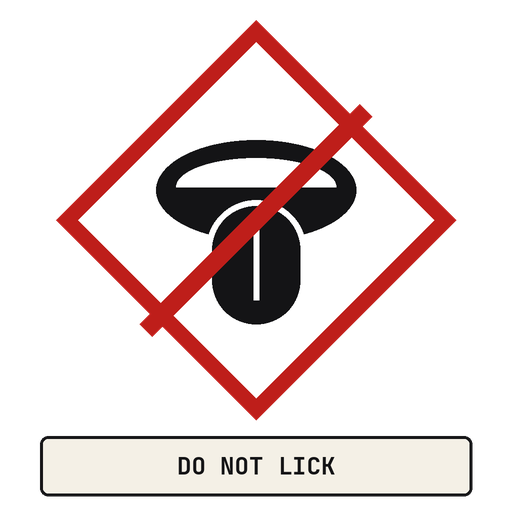
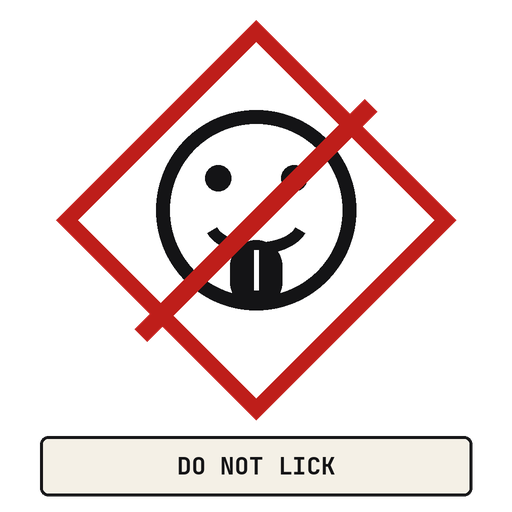
docs: replace two crate pictograms and redraw "do not lick"
Radioactive and explosive instead of "slows reflexes" and "do not kick".

Claude-Session: https://claude.ai/code/session_01TPtXe8YEjXWuXNmFgmXabW

Changed region(s): [[0.2812, 0.1875, 0.7188, 0.6562], [0.25, 0.625, 0.3125, 0.6875], [0.6875, 0.1875, 0.75, 0.2188]]

diff --git a/docs/vpk-industries.md b/docs/vpk-industries.md
@@ -265,7 +265,7 @@ Facility door sign (1024×512, enamel sign with hazard border), same folder: `no
 
 KD-PX shipment crates, same folder:
 - `kdpx_shipping_label_1024x768.png`: the waybill. From: *[CLASSIFIED]*, to: NONVIS-001 Oasis, contents (DynaRain™ ×22, Splash ×22, smoke), weight *"[?] (not found)"*, carrier *[REDACTED]*, signed by Daniel K., handling boxes (*"Keep dry (ironic)"*, *"Do not lick"*, *"Keep below 0 °K… wait, no."*), barcode `KDPX-404-0001-OASIS`, *"Priority: weather"*.
-- `kdpx_pictogram_<name>_512.png` (transparent, for decals): KD-PX hazard pictograms `kdanium`, `weather` (*contains weather*), `do-not-lick`, `slows-reflexes`, `cryogenic` (*keep below 0 °K*), `do-not-kick`.
+- `kdpx_pictogram_<name>_512.png` (transparent, for decals): KD-PX hazard pictograms `kdanium`, `weather` (*contains weather*), `do-not-lick`, `radioactive` (*highly radioactive*), `cryogenic` (*keep below 0 °K*), `explosive` (*see #001*).
 
 Emitter warning sign (1024×1024), same folder: `kd-wx-003_emitter_warning_1024x1024.png`, for the side emitter module of S.T.R.A.T.O.S.: *"KD-PX emitter · active emission"*, *"Do not inhale the weather."*, *"Do not block the outlet with your hand, your face or your coffee."*, *"The smoke is not a malfunction."*, minimum distance 2 m.
 
